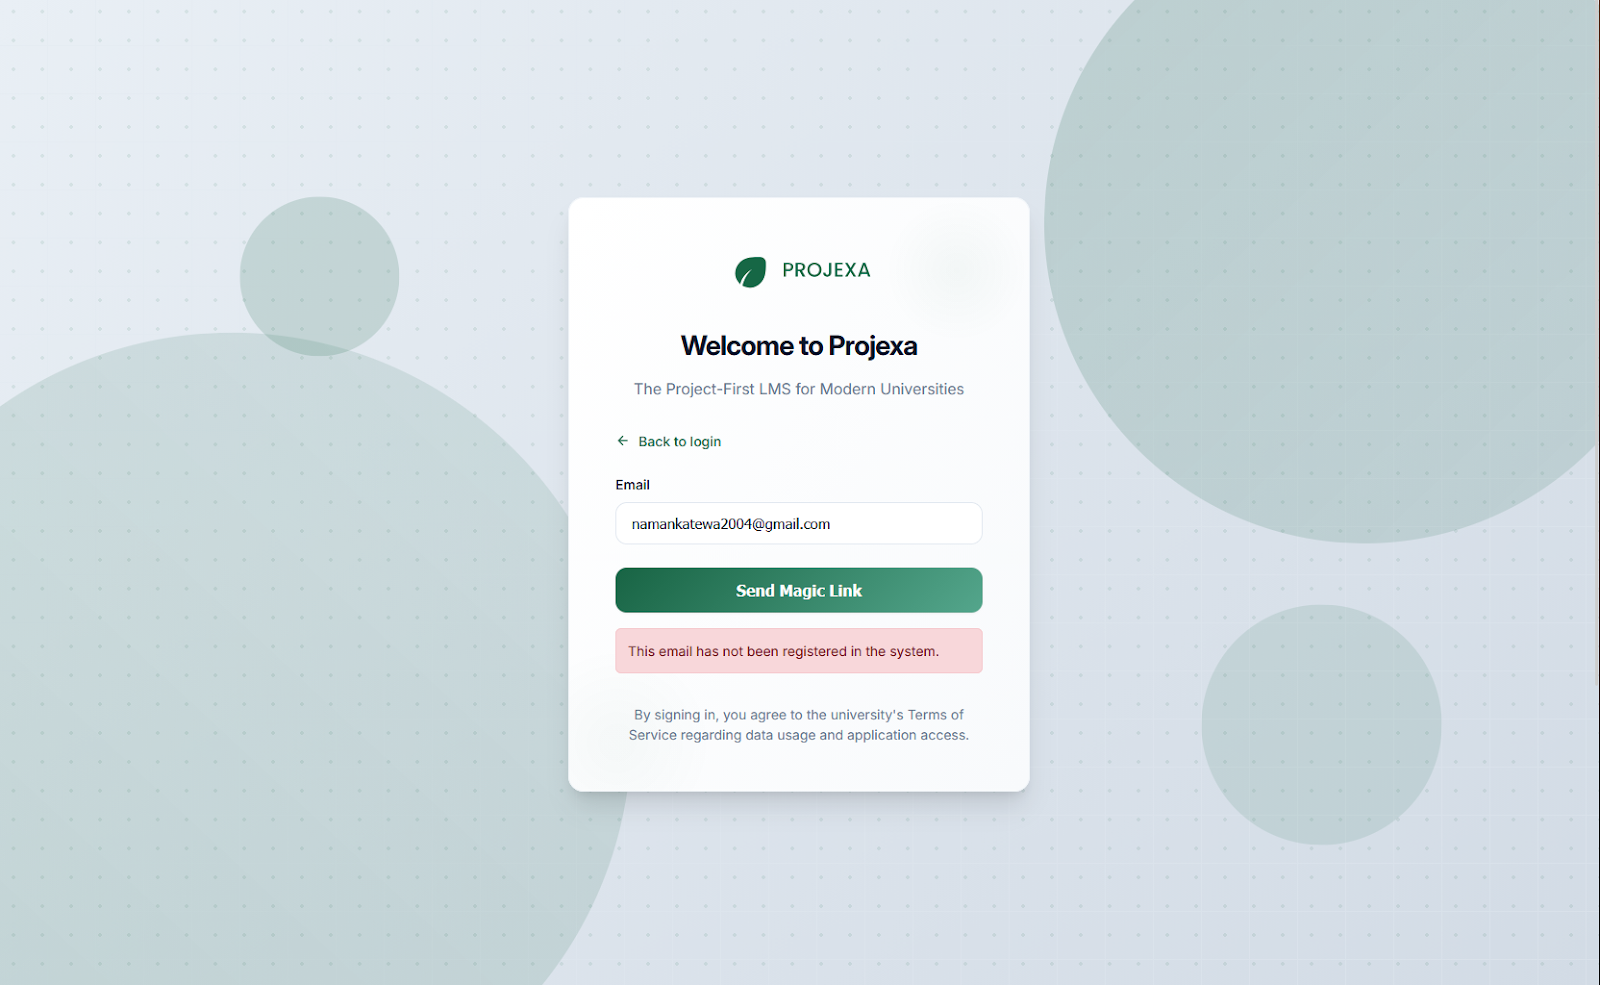
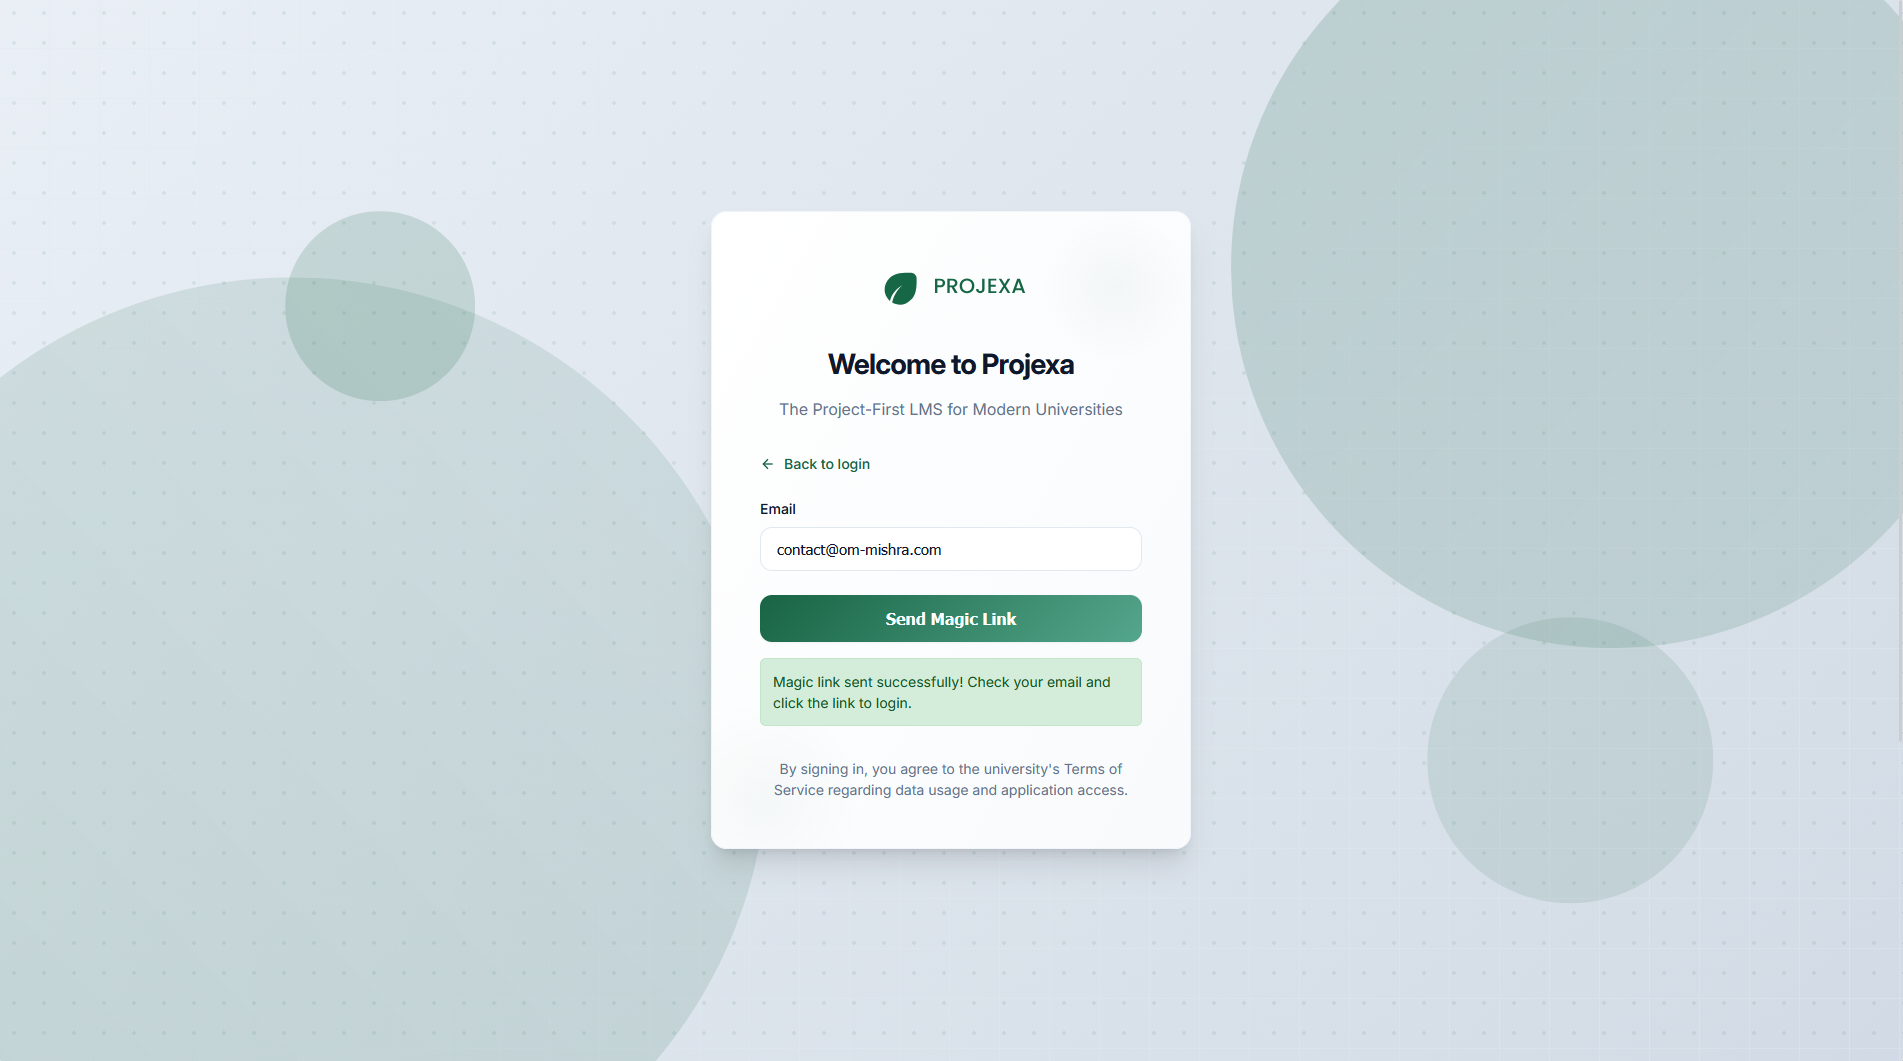
Update

diff --git a/docs/how-to-onboard-magic.md b/docs/how-to-onboard-magic.md
@@ -6,16 +6,72 @@ This convenient method provides a passwordless login for users who are not using
 
 **What You'll Experience:**
 
-1. **The Magic Link Form:** After entering your personal email and clicking "Continue," the login screen will transform. You'll see a message indicating that a magic link will be sent to your email, with your email address already pre-filled.  
-   
-   ![The Magic Link Form](assets/images/image9.png)
+**The Magic Link Form:** After entering your personal email and clicking "Continue," the login screen will transform. You'll see a message indicating that a magic link will be sent to your email, with your email address already pre-filled.
 
-2. **Sending the Magic Link:** Click the "Send Magic Link" button. Projexa will then send a unique, secure login link to your inbox.  
-   
-   ![Sending the Magic Link](assets/images/image10.png)
+![The Magic Link Form](assets/images/image9.png)
 
-3. **Checking Your Email:** Open your email client (e.g., Gmail, Outlook, Yahoo Mail) for the email address you just entered. Look for an email from Projexa.  
-     
-4. **Opening the Magic Link Email:** Open the email from Projexa. Inside, you'll find a prominent "Log In" button or a direct link.
+**Sending the Magic Link:** Click the "Send Magic Link" button. Projexa will then send a unique, secure login link to your inbox.
 
-5. **Logging In Instantly:** Click the "Log In" button or the magic link within the email. This action will instantly log you into Projexa and take you directly to your dashboard.
+![Sending the Magic Link](assets/images/image10.png)
+
+**Checking Your Email:** Open your email client (e.g., Gmail, Outlook, Yahoo Mail) for the email address you just entered. Look for an email from Projexa.
+
+**Opening the Magic Link Email:** Open the email from Projexa. Inside, you'll find a prominent "Log In" button or a direct link.
+
+**Logging In Instantly:** Click the "Log In" button or the magic link within the email. This action will instantly log you into Projexa and take you directly to your dashboard.
+
+---
+
+# Faculty Profile Completion: "Fill Your Information"
+
+> **Note:** This section is for faculty members only.
+
+This is a crucial step specifically for faculty members who are logging in for the first time or whose profiles are not yet fully complete. It ensures we have the necessary details to provide you with the best experience.
+
+**What You'll Experience:**
+
+**Automatic Redirection:** If your faculty profile isn't complete after your initial login, Projexa will automatically direct you to a dedicated "Complete Your Profile" page. You won't be able to access other parts of the application until this is done.
+
+![Automatic Redirection](assets/images/image11.png)
+
+**Filling Out Your Details:** On this page, you'll find a form asking for important details. Some fields, like your Full Name and Email, might be pre-filled (your email cannot be changed here). You'll need to accurately fill in:
+
+- **Your School:** The name of your academic school or department.
+- **Phone Number:** Your contact phone number.
+- **Employee ID:** Your unique employee identification number.
+- **Area of Specialization:** Your primary academic or professional area of expertise.
+
+![Filling Out Your Details](assets/images/image12.png)
+
+**Submitting Your Profile:** Once all fields are completed, click the "Submit Profile" button. Projexa will then save your details and mark your profile as complete.
+
+**Accessing Your Faculty Dashboard:** After successfully submitting your profile, you will be automatically taken to your Faculty Dashboard, signifying that your onboarding is complete and you can now fully utilize Projexa.
+
+---
+
+# Personalizing Your Profile: Uploading Your Profile Picture
+
+> **Note:** This section is for everyone.
+
+Your profile picture helps personalize your experience on Projexa, making your interactions more engaging and recognizable.
+
+**What You'll Experience:**
+
+**Prompt to Upload:** If you don't yet have a profile picture associated with your account, Projexa will guide you to a dedicated page to upload one. This ensures your profile is complete and ready for collaboration.
+
+![Prompt to Upload](assets/images/image13.png)
+
+**Selecting and Cropping Your Image:**
+
+- **Select Image:** Click on the designated area (e.g., "Click to select an image") to open your file explorer. Choose an image file (JPG or PNG are recommended).
+- **Cropping Tool:** Once selected, your image will appear within a cropping tool. This tool allows you to adjust the image, zoom in or out, and select the perfect square area for your profile picture. This ensures your picture looks great and fits perfectly.
+
+![Selecting and Cropping Your Image](assets/images/image14.png)
+
+**Saving Your Profile Picture:** After you've adjusted the crop to your liking, click the "Save Profile Picture" button. Projexa will process your image and update your profile.
+
+![Saving Your Profile Picture](assets/images/image15.png)
+
+**Your New Profile Picture:** Once saved, you'll be redirected back to your dashboard or profile page, where your newly uploaded and cropped profile picture will be prominently displayed.
+
+![Your New Profile Picture](assets/images/image16.png)

diff --git a/docs/how-to-onboard-microsoft.md b/docs/how-to-onboard-microsoft.md
@@ -6,14 +6,70 @@ This method is specifically designed for users with university-provided email ad
 
 **What You'll Experience:**
 
-1. **Redirection to Microsoft Login:** After entering your university email and clicking "Continue," you will be automatically and securely redirected to an official Microsoft login page. This is a standard procedure for institutional accounts, ensuring your data remains protected.  
-   
-   ![Redirection to Microsoft Login](assets/images/image5.png)
+**Redirection to Microsoft Login:** After entering your university email and clicking "Continue," you will be automatically and securely redirected to an official Microsoft login page. This is a standard procedure for institutional accounts, ensuring your data remains protected.
 
-2. **Completing Microsoft Authentication:** On the Microsoft page, you will enter your university username and password. If your institution uses multi-factor authentication (MFA), you will complete that step as well.  
-   
-   ![Completing Microsoft Authentication](assets/images/image7.png)
+![Redirection to Microsoft Login](assets/images/image5.png)
 
-3. **Landing in Projexa:** Once authenticated with Microsoft, you will be securely redirected back to Projexa. The system will recognize you and direct you to your personalized area.  
-   
-   ![Landing in Projexa](assets/images/image8.png)
+**Completing Microsoft Authentication:** On the Microsoft page, you will enter your university username and password. If your institution uses multi-factor authentication (MFA), you will complete that step as well.
+
+![Completing Microsoft Authentication](assets/images/image7.png)
+
+**Landing in Projexa:** Once authenticated with Microsoft, you will be securely redirected back to Projexa. The system will recognize you and direct you to your personalized area.
+
+![Landing in Projexa](assets/images/image8.png)
+
+---
+
+# Faculty Profile Completion: "Fill Your Information"
+
+> **Note:** This section is for faculty members only.
+
+This is a crucial step specifically for faculty members who are logging in for the first time or whose profiles are not yet fully complete. It ensures we have the necessary details to provide you with the best experience.
+
+**What You'll Experience:**
+
+**Automatic Redirection:** If your faculty profile isn't complete after your initial login, Projexa will automatically direct you to a dedicated "Complete Your Profile" page. You won't be able to access other parts of the application until this is done.
+
+![Automatic Redirection](assets/images/image11.png)
+
+**Filling Out Your Details:** On this page, you'll find a form asking for important details. Some fields, like your Full Name and Email, might be pre-filled (your email cannot be changed here). You'll need to accurately fill in:
+
+- **Your School:** The name of your academic school or department.
+- **Phone Number:** Your contact phone number.
+- **Employee ID:** Your unique employee identification number.
+- **Area of Specialization:** Your primary academic or professional area of expertise.
+
+![Filling Out Your Details](assets/images/image12.png)
+
+**Submitting Your Profile:** Once all fields are completed, click the "Submit Profile" button. Projexa will then save your details and mark your profile as complete.
+
+**Accessing Your Faculty Dashboard:** After successfully submitting your profile, you will be automatically taken to your Faculty Dashboard, signifying that your onboarding is complete and you can now fully utilize Projexa.
+
+---
+
+# Personalizing Your Profile: Uploading Your Profile Picture
+
+> **Note:** This section is for everyone.
+
+Your profile picture helps personalize your experience on Projexa, making your interactions more engaging and recognizable.
+
+**What You'll Experience:**
+
+**Prompt to Upload:** If you don't yet have a profile picture associated with your account, Projexa will guide you to a dedicated page to upload one. This ensures your profile is complete and ready for collaboration.
+
+![Prompt to Upload](assets/images/image13.png)
+
+**Selecting and Cropping Your Image:**
+
+- **Select Image:** Click on the designated area (e.g., "Click to select an image") to open your file explorer. Choose an image file (JPG or PNG are recommended).
+- **Cropping Tool:** Once selected, your image will appear within a cropping tool. This tool allows you to adjust the image, zoom in or out, and select the perfect square area for your profile picture. This ensures your picture looks great and fits perfectly.
+
+![Selecting and Cropping Your Image](assets/images/image14.png)
+
+**Saving Your Profile Picture:** After you've adjusted the crop to your liking, click the "Save Profile Picture" button. Projexa will process your image and update your profile.
+
+![Saving Your Profile Picture](assets/images/image15.png)
+
+**Your New Profile Picture:** Once saved, you'll be redirected back to your dashboard or profile page, where your newly uploaded and cropped profile picture will be prominently displayed.
+
+![Your New Profile Picture](assets/images/image16.png)

diff --git a/docs/how-to-onboard.md b/docs/how-to-onboard.md
@@ -1,0 +1,25 @@
+# Projexa Onboarding Flow: Your First Steps
+
+Welcome to Projexa! This comprehensive guide will walk you through every step of getting started, ensuring a smooth and clear onboarding experience. We'll cover how you access the system, complete your profile (especially for faculty), and personalize your account with a profile picture.
+
+## Starting Your Journey: How You Log In
+
+![image1](assets/images/image1.png)
+
+Your journey with Projexa begins the moment you visit our login page. We've designed a smart system to get you to your dashboard as quickly and securely as possible.
+
+**What You'll Experience:**
+
+**Arriving at the Login Page:** You'll navigate to the Projexa login page in your web browser. Here, you'll see a clean, intuitive interface with a prominent field asking for your email address.
+
+![image2](assets/images/image2.png)
+
+**Entering Your Email:** Type your email address into the designated field. As you do this, Projexa is already working behind the scenes to determine the best way to log you in.
+
+![image3](assets/images/image3.png)
+![image4](assets/images/image4.png)
+
+**Clicking "Continue":** After entering your email, click the "Continue" button. Projexa will then intelligently route you to the appropriate login method based on your email domain.
+
+![image5](assets/images/image5.png)
+![image6](assets/images/image6.png)
